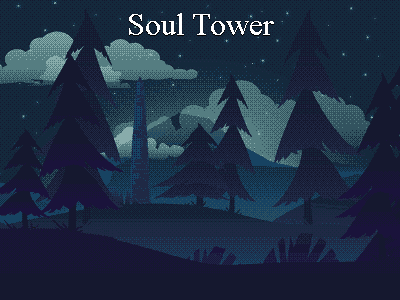
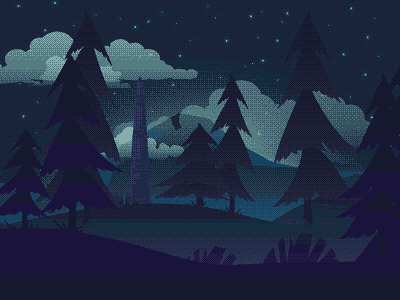
Mejorada pantalla de créditos

Changed region(s): [[0.3, 0.03, 0.69, 0.12]]

diff --git a/src/interface/screens/GUICreditsScreen.py b/src/interface/screens/GUICreditsScreen.py
@@ -14,24 +14,48 @@ from src.interface.GUIButton import *
 # Pantalla que aparece al terminar el juego
 
 # Localización de los sprites
-CREDITS_SPRITE_LOCATION = os.path.join(INTERFACE_GAME_FOLDER, 'credits.png')
+CREDITS_SPRITE_LOCATION = os.path.join(INTERFACE_GAME_FOLDER, 'soul_tower_background.png')
+SOUL_TOWER_SPRITE_LOCATION = os.path.join(INTERFACE_GAME_FOLDER, 'soul_tower_text.png')
+
+DEFAULT_FONT = 'PixelOperatorHB.ttf'
+DEFAULT_FONT_SIZE = 16
 
 class GUICreditsScreen(GUIScreen):
     def __init__(self, stage):
         GUIScreen.__init__(self, stage)
-        # Texto de muerte
+        # Fondo
         self.creditsImage = GUIImage(self, CREDITS_SPRITE_LOCATION, (0,SCREEN_HEIGHT), None, None)
-        
+        self.add_element(self.creditsImage)
+
+        # Título
+        self.soulTowerImage = GUIImage(self, SOUL_TOWER_SPRITE_LOCATION, (SCREEN_WIDTH/2,SCREEN_HEIGHT-50))
+
+        self.add_element(self.soulTowerImage)
+
+        # Texto de créditos
+        creditsContent = ["Rafael Alcalde Azpiazu", "Diego Martínez Cela", "Eva Suárez García", "Iago Otero Coto", "Jorge Viteri Letamendía"]
+        self.creditsContents = []
+        font = ResourceManager.load_font(DEFAULT_FONT, DEFAULT_FONT_SIZE)
+        for i in range(0, len(creditsContent)):
+            self.creditsText = GUIText(self, (SCREEN_WIDTH/2,SCREEN_HEIGHT+15*i), font, creditsContent[i],'center', (255, 255, 255))
+            self.creditsContents.append(self.creditsText)
+            self.GUIElements.append(self.creditsText)
+
         # Surface para hacer un fadeout
         self.alpha = 255
         self.black = pygame.Surface((SCREEN_WIDTH, SCREEN_HEIGHT))
-
-        self.add_element(self.creditsImage)
+        self.adder = 0
 
     def update(self, time):
         GUIScreen.update(self, time)
         self.alpha = max(self.alpha - time*0.1, 0)
 
+        self.adder = min(1, self.adder+time*0.02)
+        if(self.soulTowerImage.rect.top) > 10:
+            for i in range(0, len(self.creditsContents)):
+                pos = self.creditsContents[i].rect.midbottom
+                self.creditsContents[i].rect.midbottom = (pos[0], pos[1]-self.adder)
+            self.soulTowerImage.rect.midbottom = (SCREEN_WIDTH/2, self.soulTowerImage.rect.midbottom[1]-self.adder)
     def draw(self, screen):
         GUIScreen.draw(self, screen)
         self.black.set_alpha(int(self.alpha))

diff --git a/src/interface/screens/GUIWindowDialogScreen.py b/src/interface/screens/GUIWindowDialogScreen.py
@@ -110,11 +110,13 @@ class GUIWindowDialogScreen(GUIScreen):
         self.choice = 1
         self.stage.player.choiceAdder -= 1
         self.stage.player.add_max_life()
-        self.stage.player.stats["spd"] = 0.6
+        self.stage.player.stats["spd"] = 0.3
+        self.stage.player.diagonalSpeed = m.sqrt((self.stats["spd"] * self.stats["spd"])/2.0)
 
     def button_fun_8(self):
         self.choice = 2
         self.stage.player.add_max_life()
         self.stage.player.add_max_energy()
         self.stage.player.stats["atk"] = 2
-        self.stage.player.stats["spd"] = 0.6
+        self.stage.player.stats["spd"] = 0.3
+        self.stage.player.diagonalSpeed = m.sqrt((self.stats["spd"] * self.stats["spd"])/2.0)

diff --git a/src/interface/screens/GUIPlayerScreen.py b/src/interface/screens/GUIPlayerScreen.py
@@ -22,7 +22,7 @@ ENERGY_BAR_SPRITE_LOCATION = os.path.join(INTERFACE_PLAYER_FOLDER, 'gui_energy_b
 SOULS_SPRITE_LOCATION = os.path.join(INTERFACE_PLAYER_FOLDER, 'gui_souls_box.png')
 
 DEFAULT_FONT = 'PixelOperatorHB.ttf'
-DEFAULT_FONT_SIZE = 12
+DEFAULT_FONT_SIZE = 14
 
 class GUIPlayerScreen(GUIScreen):
     def __init__(self, stage):

diff --git a/src/scenes/Stage.py b/src/scenes/Stage.py
@@ -96,6 +96,7 @@ class Stage(Scene):
 
         # Pantalla de créditos
         self.guiCredits = None
+        self.guiCredits = GUICreditsScreen(self)
 
         # Inicializamos el viewport, que es un rectángulo del tamaño de la
         # pantalla que indicará qué porción de la sala se debe mostrar
